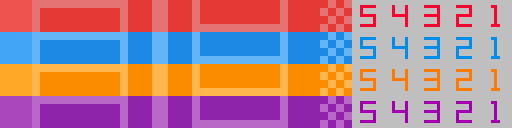
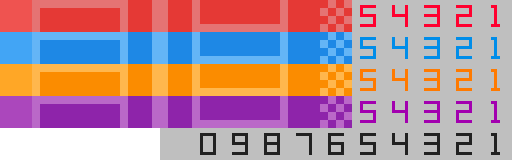
Display a damage counter

diff --git a/app/javascripts/components/_board.js b/app/javascripts/components/_board.js
@@ -246,6 +246,41 @@ export default class Board {
     });
   }
 
+  damageCounter() {
+    let hundreds = -1;
+    let tens = -1;
+    let singles = 0;
+
+    if (this.game) {
+      const damage = this.game.garbageQueue.length;
+      const damageStr = damage.toString();
+
+      // I don't think over 1000 is actually possible, but lets not take any chances
+      if (damage > 999) {
+        hundreds = 9;
+        tens = 9;
+        singles = 9;
+      } else if (damage > 99) {
+        hundreds = damageStr[0];
+        tens = damageStr[1];
+        singles = damageStr[2];
+      } else if (damage > 9) {
+        tens = damageStr[0];
+        singles = damageStr[1];
+      } else {
+        singles = damageStr;
+      }
+    }
+
+    return [hundreds, tens, singles].map(i =>{
+      if (i === -1) {
+        return m('.gem.damage-blank');
+      } else {
+        return m(`.gem.damage-${i}`);
+      }
+    });
+  }
+
   view() {
     const _this = this;
     return [
@@ -260,11 +295,14 @@ export default class Board {
           }),
           m('.lockdelay-progress'),
         ]),
-        m('.piece-queue',
-          this.pieceQueue.map((i,_) => m('.piece', i.map((j,_) => m('.gem', {
-            class: `${j.colour} ${ j.smasher ? 'smasher' : ''} ${ j.timer ? `timer-${j.timer}` : ''}`
-          }))))
-        ),
+        m('.game-info', [
+          m('.piece-queue',
+            this.pieceQueue.map((i,_) => m('.piece', i.map((j,_) => m('.gem', {
+              class: `${j.colour} ${ j.smasher ? 'smasher' : ''} ${ j.timer ? `timer-${j.timer}` : ''}`
+            }))))
+          ),
+          m('.incoming-damage', this.damageCounter()),
+        ]),
         m('.overlay',
           {
             class: (this.overlay ? '' : 'hide'),

diff --git a/app/stylesheets/_gem.scss b/app/stylesheets/_gem.scss
@@ -87,4 +87,16 @@
     &.timer-1        { background-position: -480px -96px; }
     &.smasher        { background-position: -320px -96px; }
   }
+
+  &.damage-1     { background-position: -480px -128px; }
+  &.damage-2     { background-position: -448px -128px; }
+  &.damage-3     { background-position: -416px -128px; }
+  &.damage-4     { background-position: -384px -128px; }
+  &.damage-5     { background-position: -352px -128px; }
+  &.damage-6     { background-position: -320px -128px; }
+  &.damage-7     { background-position: -288px -128px; }
+  &.damage-8     { background-position: -256px -128px; }
+  &.damage-9     { background-position: -224px -128px; }
+  &.damage-0     { background-position: -192px -128px; }
+  &.damage-blank { background-position: -160px -128px; }
 }

diff --git a/app/stylesheets/_room.scss b/app/stylesheets/_room.scss
@@ -23,7 +23,7 @@ $shrink-opponent-width: 192px * 0.50;
         .opponent-board {
           position: absolute;
           right: 30px;
-          top: 250px;
+          top: 282px;
         }
 
         canvas {
@@ -40,7 +40,7 @@ $shrink-opponent-width: 192px * 0.50;
           top: 75px;
         }
 
-        .piece-queue, .lockdelay-progress {
+        .game-info, .lockdelay-progress {
           display: none;
         }
       }
@@ -90,7 +90,7 @@ $shrink-opponent-width: 192px * 0.50;
           width: $shrink-opponent-width;
         }
 
-        .piece-queue, .lockdelay-progress {
+        .game-info, .lockdelay-progress {
           display: none;
         }
 

diff --git a/app/stylesheets/_board.scss b/app/stylesheets/_board.scss
@@ -31,15 +31,19 @@
   width: 192px;
 }
 
-.piece-queue {
+.game-info {
   display: inline-block;
   vertical-align: top;
+  font-size: 0.0001px;
+}
+
+.piece-queue {
   border: 0.1rem solid #d1d1d1;
   border-left-width: 0;
+  border-bottom-width: 0;
   /* These are 1px and 2px bigger than expected to account for the border */
   min-width: 97px;
   min-height: 162px;
-  font-size: 0.0001px;
 
   .piece {
     padding: 16px 16px 0 16px;
@@ -50,6 +54,16 @@
     .gem {
       display: inline-block;
     }
+  }
+}
+
+.incoming-damage {
+  border: 0.1rem solid #d1d1d1;
+  border-top-width: 0;
+  border-left-width: 0;
+
+  .gem {
+    display: inline-block;
   }
 }
 

diff --git a/app/javascripts/lib/game_modes/room_states/playing.js b/app/javascripts/lib/game_modes/room_states/playing.js
@@ -69,5 +69,6 @@ export default class RoomStatePlaying extends RoomStateBase {
   attack(data) {
     const attacker = this.findPlayer(data.attackerUuid);
     this.game.queueGarbage(data.damage, attacker.playerBoard.player.dropPattern);
+    m.redraw();
   }
 }

diff --git a/app/javascripts/lib/replayers/base_replayer.js b/app/javascripts/lib/replayers/base_replayer.js
@@ -89,6 +89,7 @@ export default class BaseReplayer extends Player {
       column, this.playerBoard.height - 1,
       colour, false, 5,
     ));
+    m.redraw();
   }
 
   movesFor(delta) {

diff --git a/app/stylesheets/_mobile_controls.scss b/app/stylesheets/_mobile_controls.scss
@@ -12,5 +12,5 @@
   display: inline-block;
   font-size: 3rem;
   padding: 1rem;
-  opacity: 0.5;
+  opacity: 0.15;
 }
